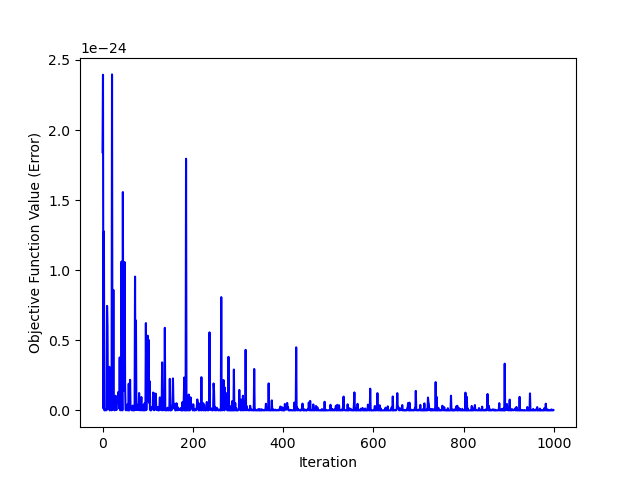
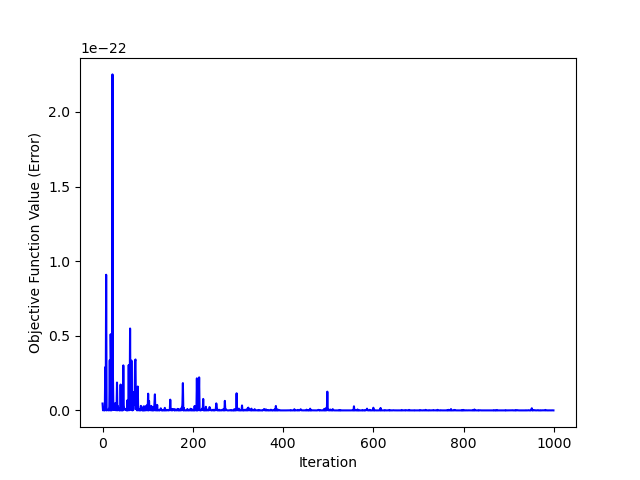
Added plot for part 1b; corrected gd formula

diff --git a/Miniproject_3/part_1.py b/Miniproject_3/part_1.py
@@ -37,17 +37,34 @@ print(y_hat, y_zeroes)
 def get_gradient(X,a,y):
     return (2*(X.dot(a)-y)*X).reshape(-1,1)
 
-def descend_gradient(a_guess, X, y, step_size, n_train, n_iter=1000):
-    a_hat = a_guess
-    for i in range(n_iter):
+def error(X,a,y):
+    return np.square(np.linalg.norm(X.dot(a)-y))
 
+def descend_gradient(a_guess, X, y, step_size, n_train, n_iter=20):
+    a_hat = a_guess
+    iter_number = []
+    obj_fun_values = []
+    for i in range(n_train):
         x_i = X[i]
         y_i = y[i]
         a_hat = a_hat - (step_size * get_gradient(x_i, a_hat, y_i))
-    return a_hat
+        iter_number += [i]
+        obj_fun_values += [error(x_i, a_hat, y_i)]
+    return a_hat, iter_number, obj_fun_values
+
+a_hat_gd_00005, iter_numbers_00005, obj_fun_values_00005 = descend_gradient(a_hat, X, y, 0.00005, 100, 20)
+a_hat_gd_0005, iter_numbers_0005, obj_fun_values_0005 = descend_gradient(a_hat, X, y, 0.0005, 100, 20)
+a_hat_gd_0007, iter_numbers_0007, obj_fun_values_0007 = descend_gradient(a_hat, X, y, 0.0007, 100, 20)
 
 
-step_sizes = [0.00005, 0.0005, 0.0007]
+plt.plot(iter_numbers_00005, obj_fun_values_00005, 'ro')
+plt.plot(iter_numbers_0005, obj_fun_values_0005, 'mo')
+plt.plot(iter_numbers_0007, obj_fun_values_0007, 'bo')
+plt.xlabel('Iteration')
+plt.ylabel('Objective Function Value (Error)')
+plt.savefig('figs/part1b.gd_all.png')
+plt.clf()
+
 
 # 1.c stochastic gradient descent using ben's method
 train_n = 100
